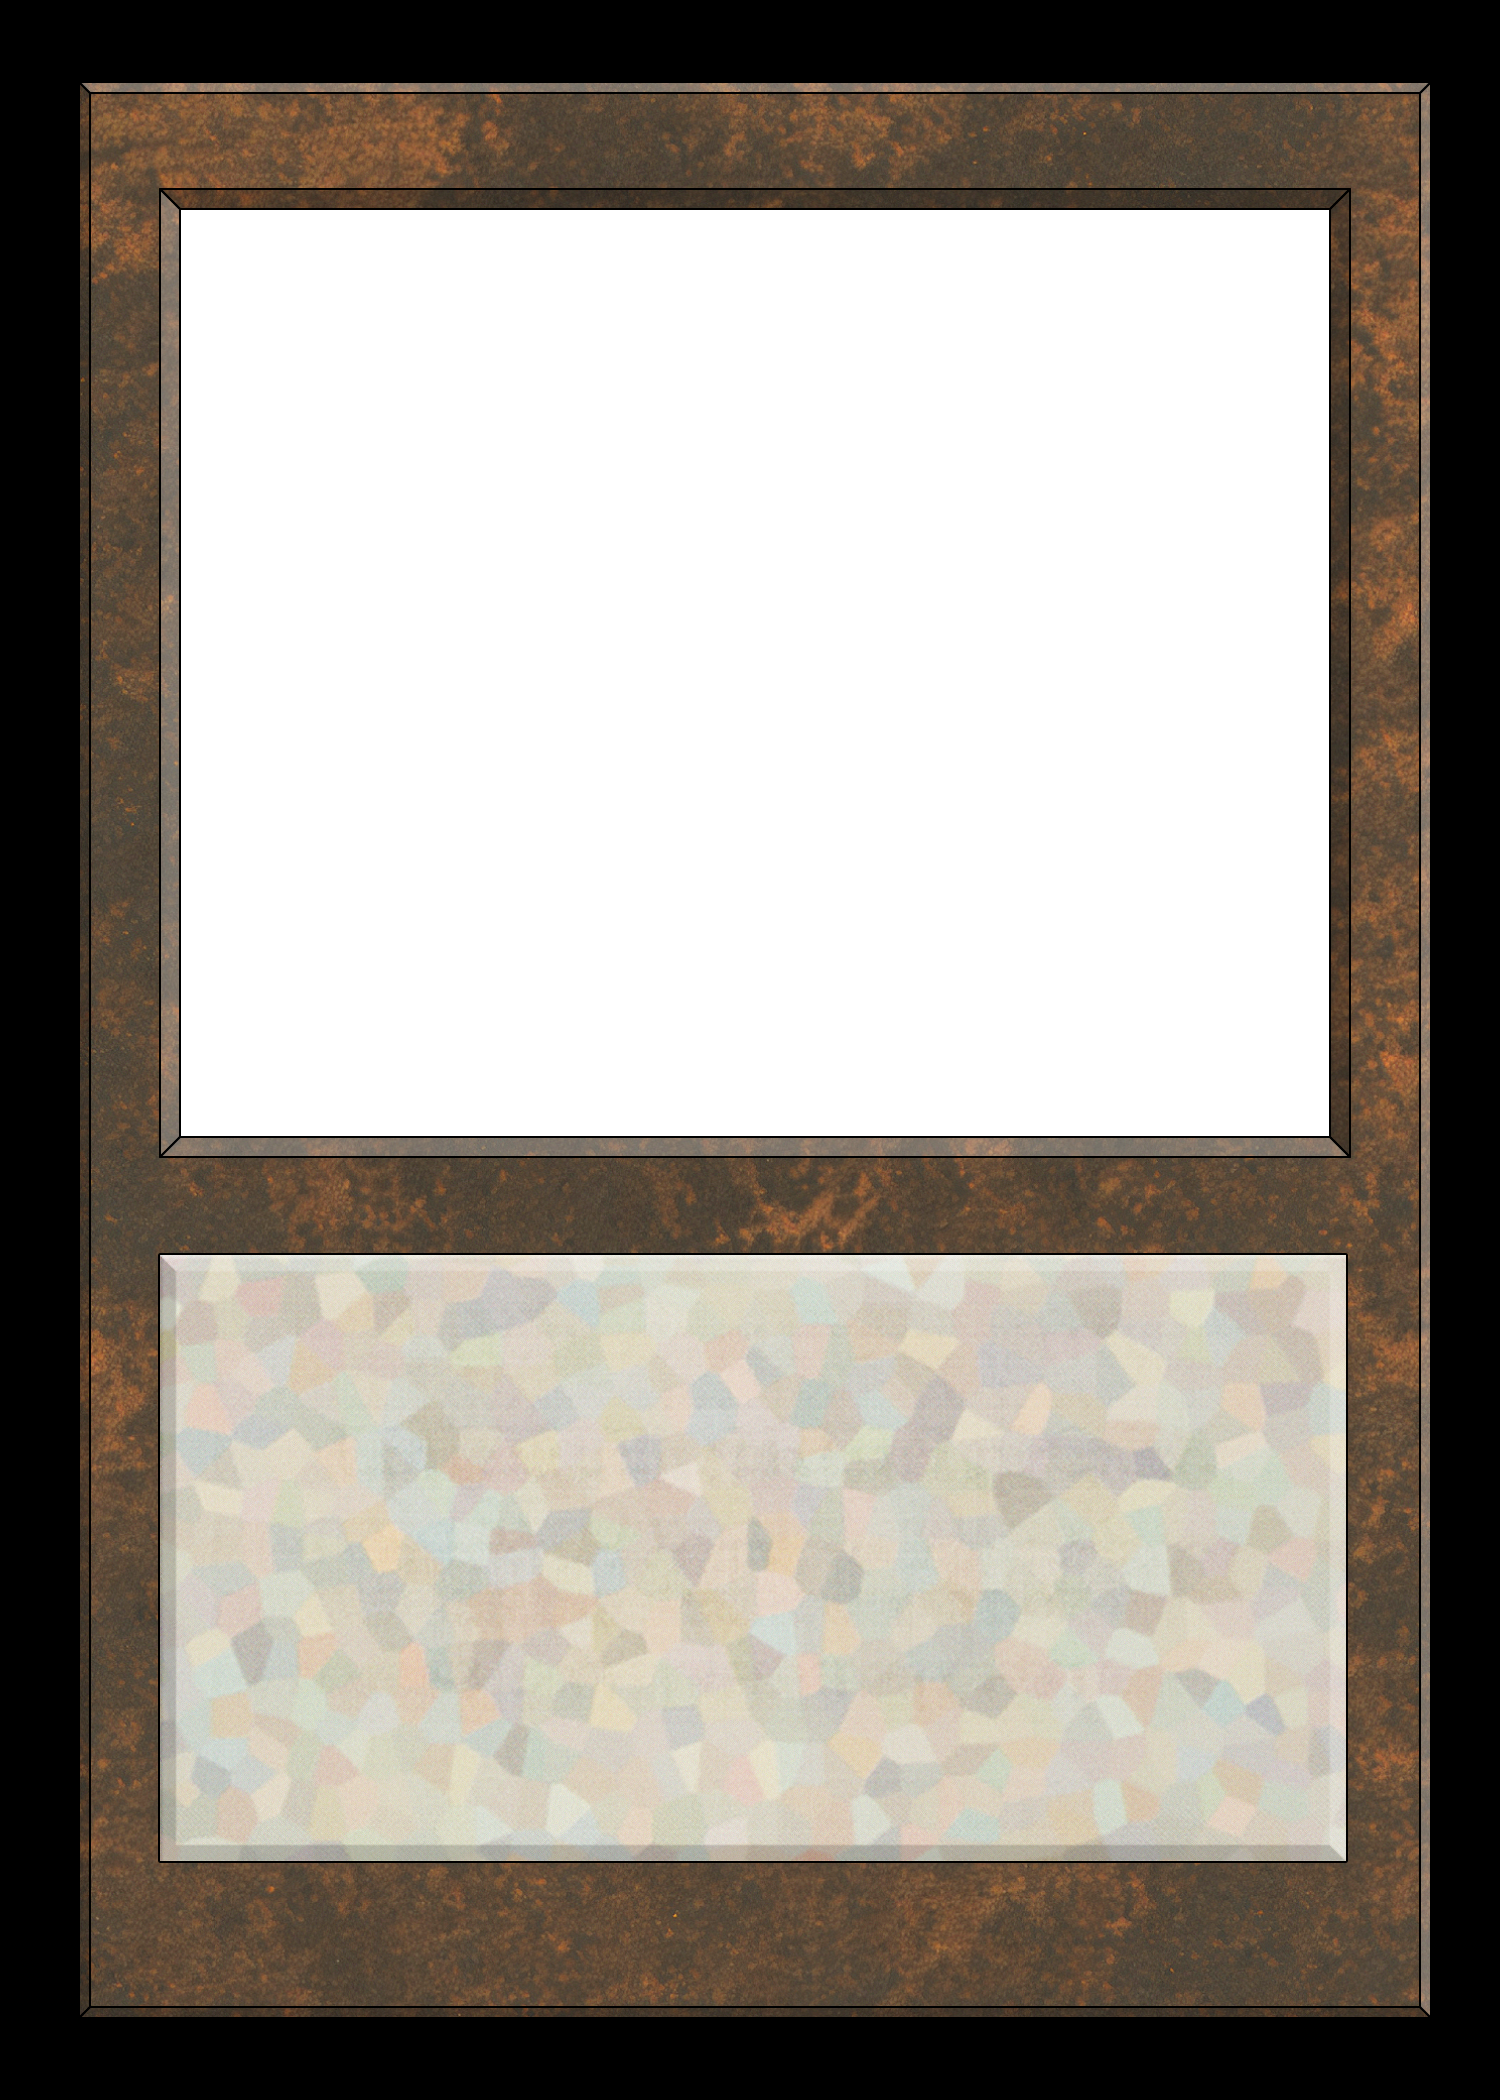
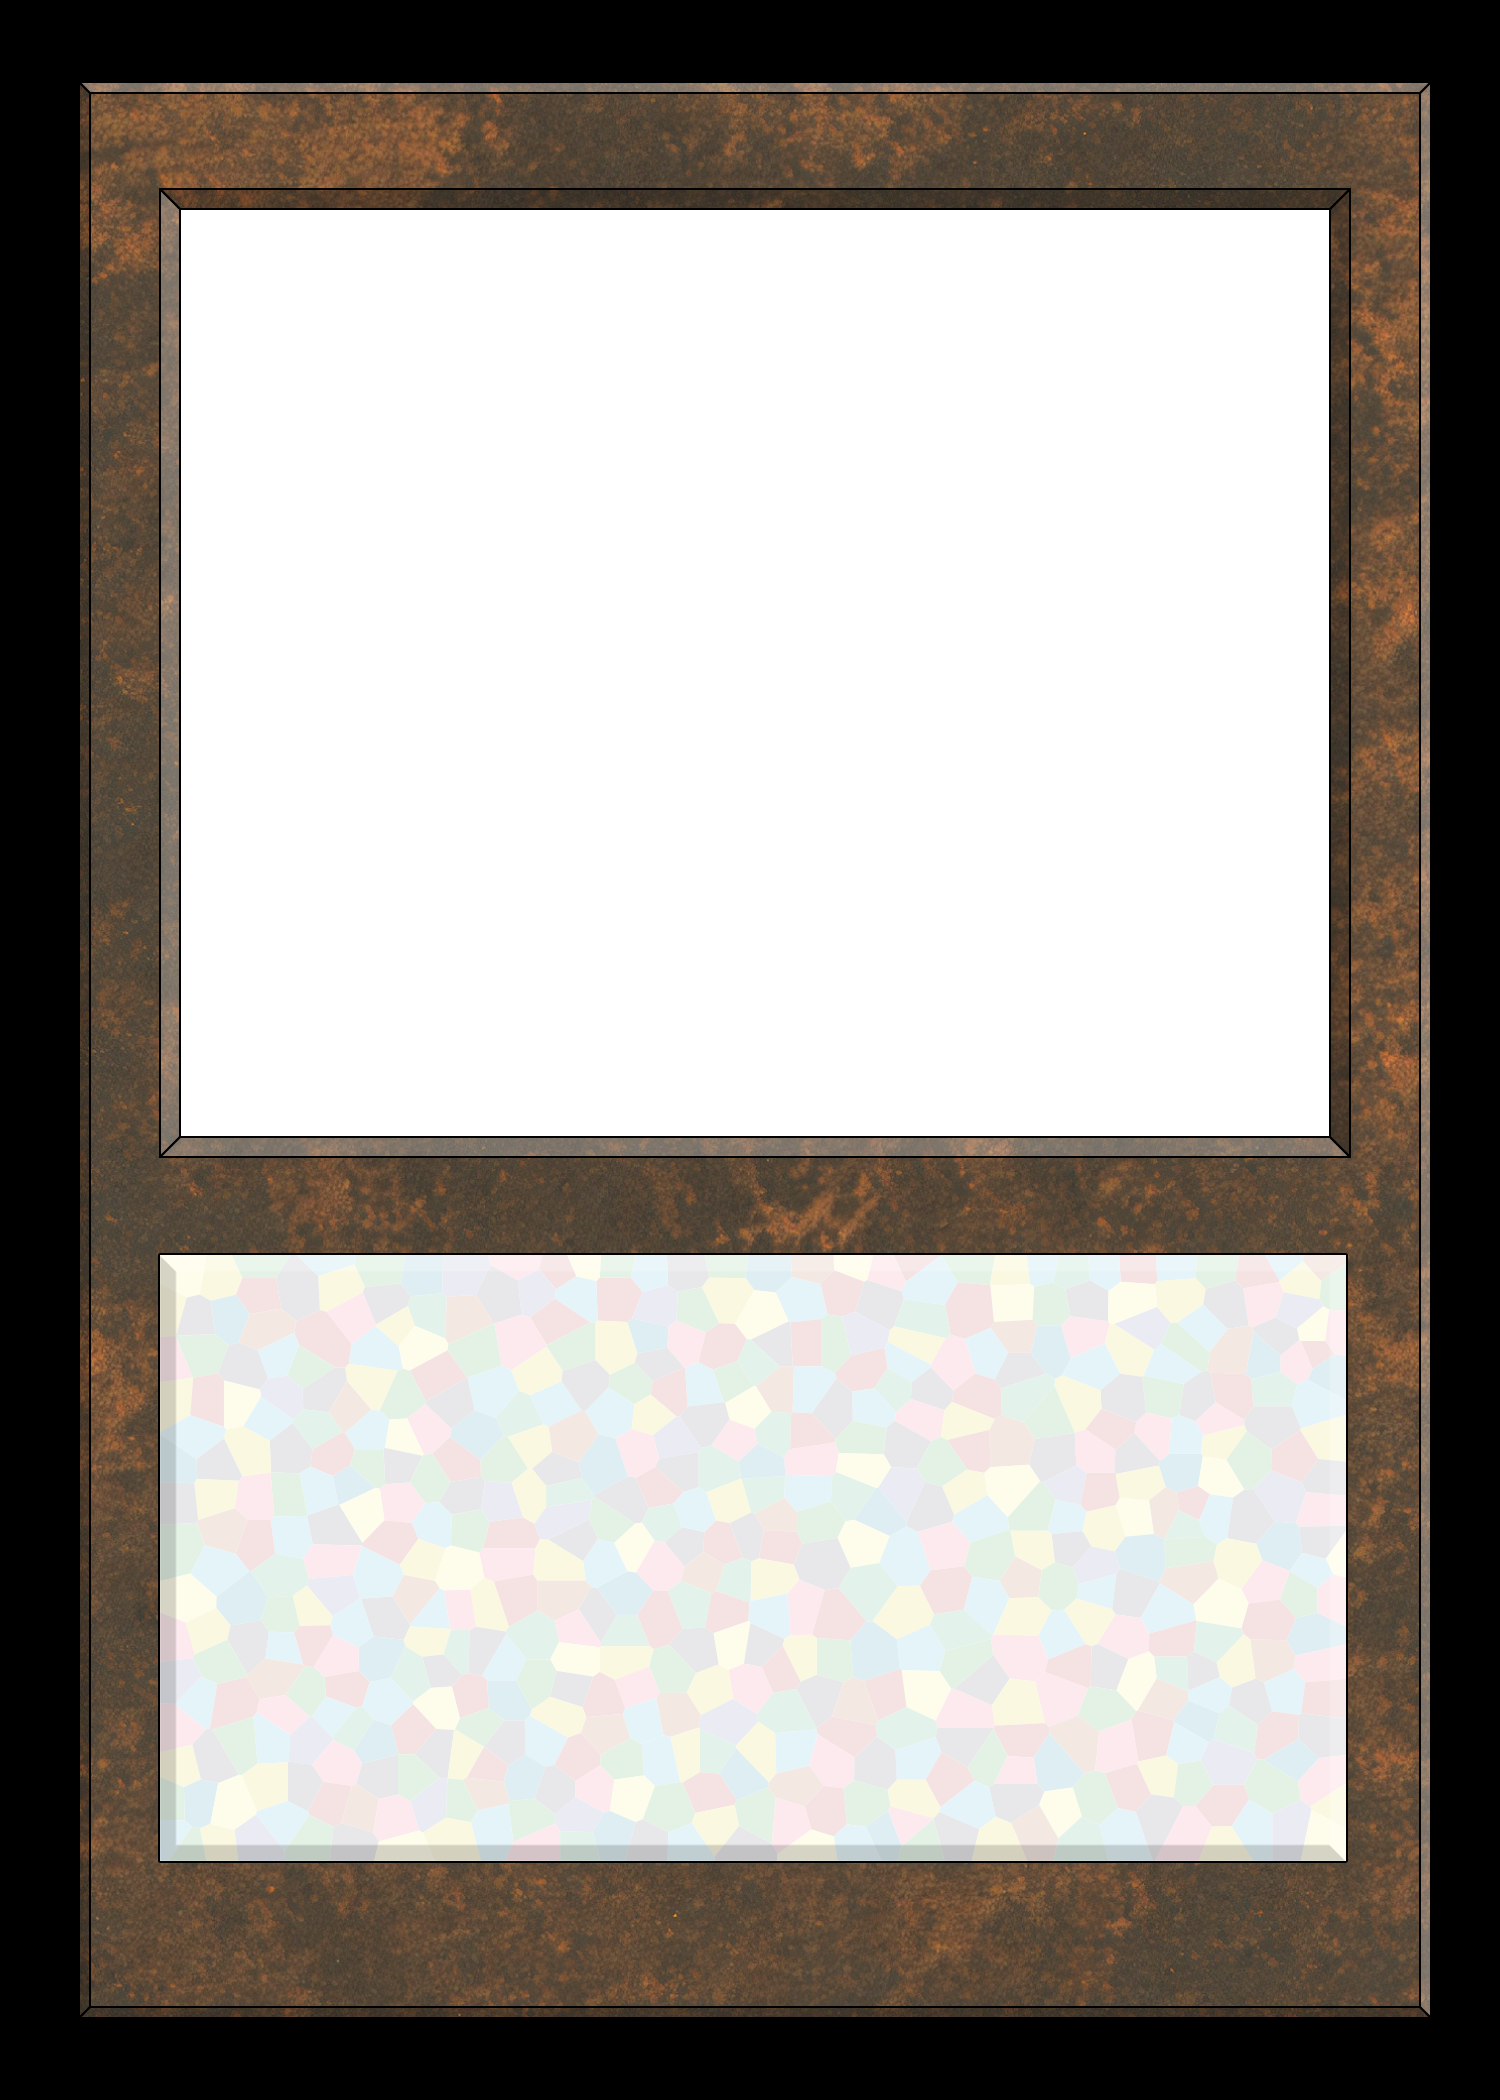
old border colorless / improved artifact textbox

Changed region(s): [[0.092, 0.5881, 0.92, 0.8976]]

diff --git a/js/frames/packSeventh.js b/js/frames/packSeventh.js
@@ -1,5 +1,5 @@
 //Create objects for common properties across available frames
-var masks = [{src:'/img/frames/seventh/regular/pinline.svg', name:'Pinline'}, {src:'/img/frames/seventh/regular/rules.svg', name:'Rules'}, {src:'/img/frames/seventh/regular/frame.svg', name:'Frame'}, {src:'/img/frames/seventh/regular/border.svg', name:'Border'}];
+var masks = [{src:'/img/frames/seventh/regular/pinline.svg', name:'Pinline'}, {src:'/img/frames/seventh/regular/rules.svg', name:'Rules'}, {src:'/img/frames/seventh/regular/frame.svg', name:'Frame'}, {src:'/img/frames/seventh/regular/trim.svg', name:'Textbox Pinline'}, {src:'/img/frames/seventh/regular/border.svg', name:'Border'}];
 var borderMask = [{src:'/img/frames/seventh/regular/border.svg', name:'Border'}]
 //defines available frames
 availableFrames = [
@@ -10,6 +10,7 @@ availableFrames = [
 	{name:'Green Frame', src:'/img/frames/seventh/regular/g.png', masks:masks},
 	{name:'Multicolored Frame', src:'/img/frames/seventh/regular/m.png', masks:masks},
 	{name:'Artifact Frame', src:'/img/frames/seventh/regular/a.png', masks:masks},
+	{name:'Colorless Frame', src:'/img/frames/seventh/regular/c.png', masks:masks},
 	{name:'Land Frame', src:'/img/frames/seventh/regular/l.png', masks:masks},
 	{name:'White Land Frame', src:'/img/frames/seventh/regular/wl.png', masks:masks},
 	{name:'Blue Land Frame', src:'/img/frames/seventh/regular/ul.png', masks:masks},

diff --git a/js/frames/packSeventhButFifth.js b/js/frames/packSeventhButFifth.js
@@ -1,5 +1,5 @@
 //Create objects for common properties across available frames
-var masks = [{src:'/img/frames/seventh/regular/pinline.svg', name:'Pinline'}, {src:'/img/frames/seventh/regular/rules.svg', name:'Rules'}, {src:'/img/frames/seventh/regular/frame.svg', name:'Frame'}, {src:'/img/frames/seventh/regular/border.svg', name:'Border'}];
+var masks = [{src:'/img/frames/seventh/regular/pinline.svg', name:'Pinline'}, {src:'/img/frames/seventh/regular/rules.svg', name:'Rules'}, {src:'/img/frames/seventh/regular/frame.svg', name:'Frame'}, {src:'/img/frames/seventh/regular/trim.svg', name:'Textbox Pinline'}, {src:'/img/frames/seventh/regular/border.svg', name:'Border'}];
 var borderMask = [{src:'/img/frames/seventh/regular/border.svg', name:'Border'}]
 //defines available frames
 availableFrames = [
@@ -10,6 +10,7 @@ availableFrames = [
 	{name:'Green Frame', src:'/img/frames/seventh/regular/g.png', masks:masks},
 	{name:'Multicolored Frame', src:'/img/frames/seventh/regular/m.png', masks:masks},
 	{name:'Artifact Frame', src:'/img/frames/seventh/regular/a.png', masks:masks},
+	{name:'Colorless Frame', src:'/img/frames/seventh/regular/c.png', masks:masks},
 	{name:'Land Frame', src:'/img/frames/seventh/regular/l.png', masks:masks},
 	{name:'White Land Frame', src:'/img/frames/seventh/regular/wl.png', masks:masks},
 	{name:'Blue Land Frame', src:'/img/frames/seventh/regular/ul.png', masks:masks},
